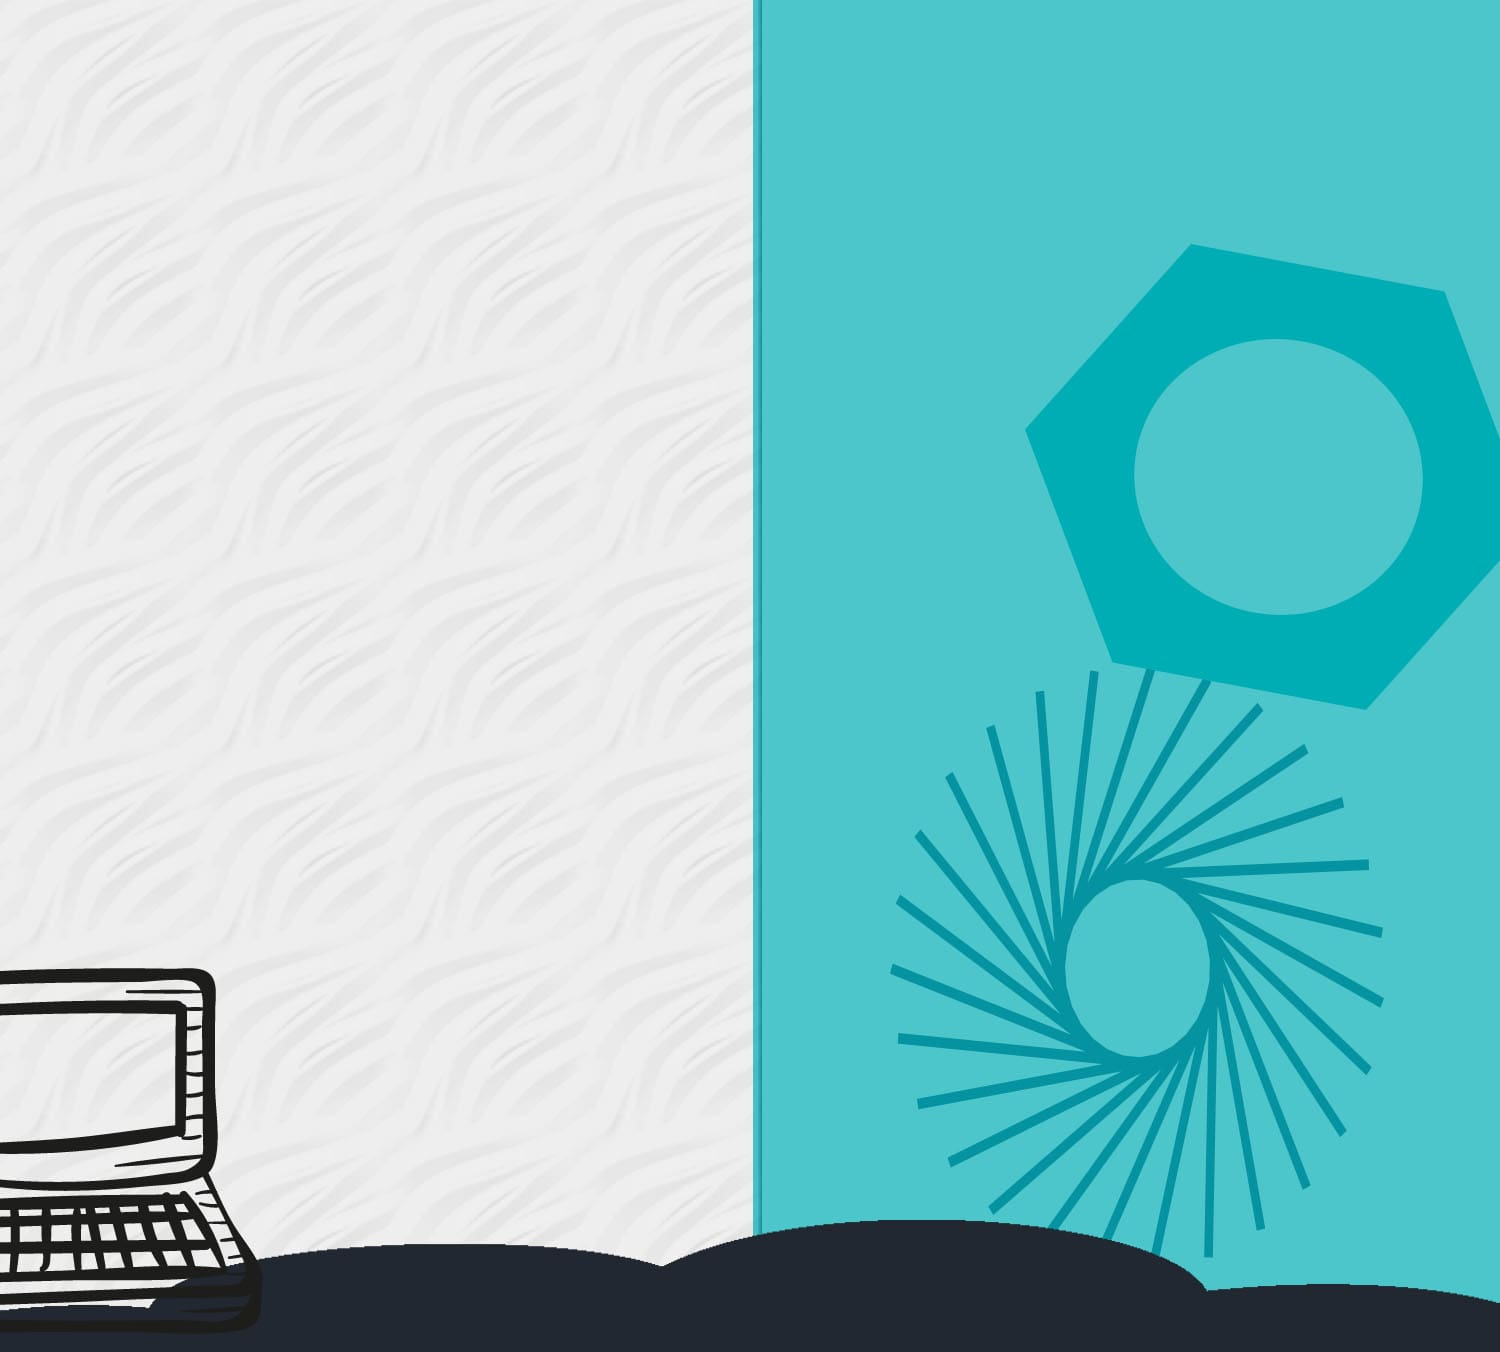
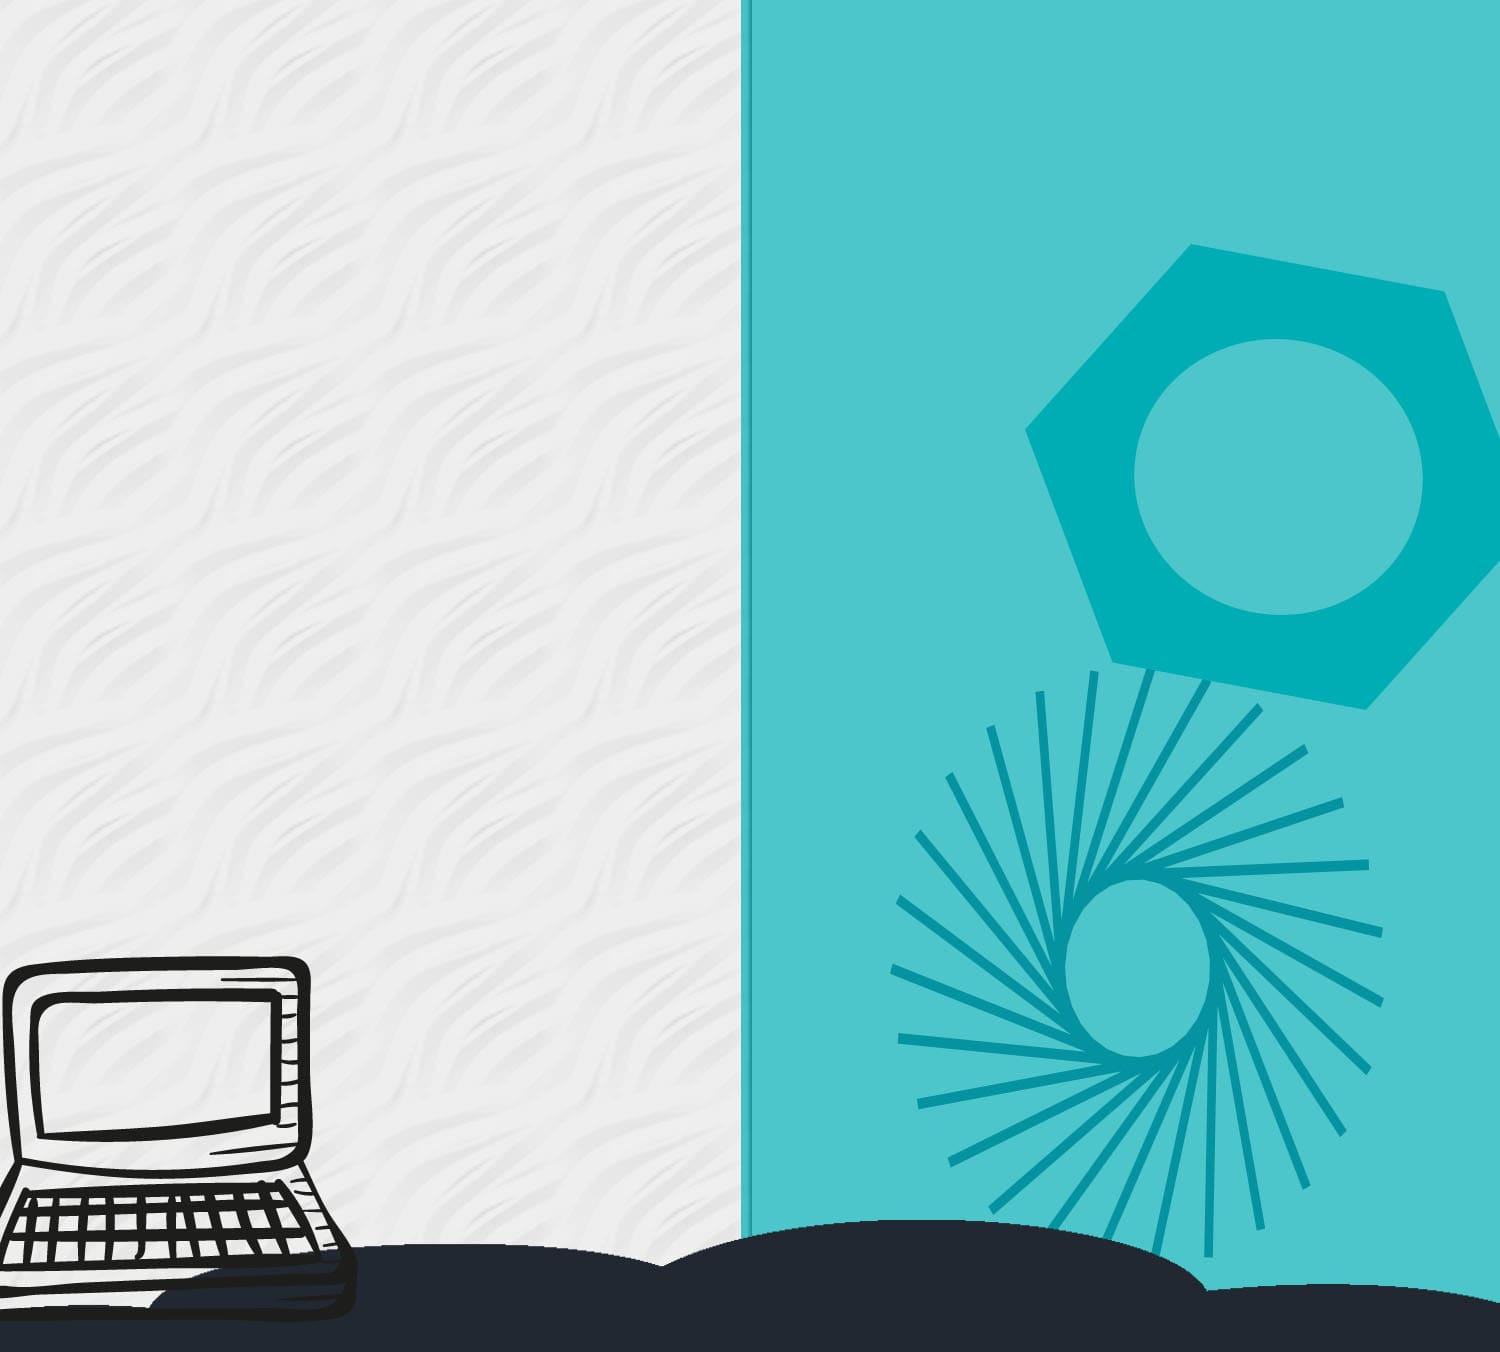
add new layout & design in home

Changed region(s): [[0.0, 0.6834, 0.2453, 0.9941], [0.4907, 0.0, 0.5213, 0.932]]

diff --git a/js/main.js b/js/main.js
@@ -1,100 +1,1 @@
-$(document).ready(()=>{
-    
-    let bars = $('#bars');
-    let linksCon = $('#linksCon');
-    bars.on('click',()=>{
-        if(bars.hasClass('fa-bars')){
-            bars.removeClass('fa-bars').addClass('fa-close');
-            // set left
-            linksCon.css("left", "0");
-            // rotate
-            bars.css("transform","rotate(360deg)");
-            // set opacity
-            setTimeout(()=>{
-                linksCon.css("opacity","1");
-            },1100);
-        }else{
-            bars.addClass('fa-bars').removeClass('fa-close')
-            // set opacity
-            linksCon.css("opacity", "0");
-            // rotate
-            bars.css("transform","rotate(-360deg)");
-            // set opacity
-            setTimeout(()=>{
-                linksCon.css("left","200%");
-            },1100);
-        }
-    });
-
-    // loop links
-    let links = $('.links');
-    links.each(function(index,btn){
-       $(this).on('click',function(){
-
-        // check if window width is less than 875
-        if($(window).width()<= 874){
-             // close if have click of any links
-        bars.addClass('fa-bars').removeClass('fa-close');
-        // set opacity
-        linksCon.css("opacity", "0");
-        // rotate
-        bars.css("transform","rotate(-360deg)");
-        // set opacity
-        setTimeout(()=>{
-            linksCon.css("left","200%");
-        },1100);
-        }
-
-
-        });
-    });
-
-
-
-
-    // for contact form 
-    let contactForm = $('.contactForm');
-    let contactbtn = $('#contact');
-
-    contactbtn.on('click',()=>{
-        if(contactForm.hasClass('close')){
-
-            // lock scroll
-            $('body').css("overflow","hidden");
-
-            contactForm.removeClass('close').addClass('open');
-            contactForm.css("left","0");
-            setTimeout(()=>{
-                contactForm.css("opacity","1");
-            },1050)
-        }
-    });
-
-
-        // close form
-        $('#closeContactForm').on('click',()=>{
-
-            
-        // allow scroll
-        $('body').css("overflow","unset");
-
-        contactForm.addClass('close').removeClass('open');
-        contactForm.css("opacity","0");
-        setTimeout(()=>{
-            contactForm.css("left","200%");
-        },1000);
-
-
-        });
-
-    
-
-
-    // get date
-    let date = new Date();
-    let getYear = date.getFullYear();
-    $('#c').text(`Jonrie © ${getYear}`);
-
-
-
-});
+import "./index.js";

diff --git a/css/home.css b/css/home.css
@@ -76,7 +76,7 @@
     top: 0%;
     left: 200%;
     z-index: 100000000000000000000;
-    background: #222831;
+    background: #222831a6;
     width: 100%;
     height: 100%;
     display: flex;
@@ -93,11 +93,11 @@
 
 .main .contactForm #closeContactForm{
     position: absolute;
-    top: 6%;
+    top: 1.5%;
     right: 3%;
     color: #EEEEEE;
     cursor: pointer;
-    font-size: 2rem;
+    font-size: 1.5rem;
 }
 
 
@@ -169,6 +169,7 @@
     font-size: 2rem;
     color: #393E46;
     transition: .5s linear;
+    background: #EEEEEE;
 }
 .main .socialLinks a >i:hover{
     color: #000;
@@ -179,12 +180,21 @@
 
 .main .home{
     background: url("../assets/homebg.jpg")no-repeat center center/cover;
-    height: 100vh;
-    min-height: 1200px;
+    min-height: 1000px;
     max-height: 1400px;
     width: 100%;
     position: relative;
     overflow: hidden;
+    background-attachment: fixed;
+}
+.main .home::after{
+    content: "";
+    background: url("../assets/cloud.png");
+    width: 100%;
+    height: 8rem;
+    position: absolute;
+    top: 88.5%;
+    left: 0;
 }
 /* header */
 .main .home header{

diff --git a/css/myWorks.css b/css/myWorks.css
@@ -143,6 +143,22 @@
 
 
 
+/* large screen width */
+@media screen and (min-width: 2300px){
+    /* works con new layout 2300px */
+    .main .myWorks .worksCon{
+        max-width: unset;
+    }
+    /* lines from make none */
+    .main .myWorks .worksCon >div >.linesFrom::before{
+        display: none;
+    }
+    /* dots from h2 adjust position */
+    .main .myWorks .worksCon >div >h2::after{
+        left: -3%;
+    }
+}
+
 
 /* media */
 @media screen and (max-width: 950px){

diff --git a/css/about.css b/css/about.css
@@ -7,7 +7,6 @@
     align-items: center;
     gap: .5rem;
     padding: 0 .5rem;
-    
     /* for picture */
     overflow: hidden;
 }
@@ -61,6 +60,7 @@ line-height: 3rem;
     gap: 2rem;
     margin-top: 2.2rem;
     padding-left: 4.3rem;
+    max-width: 2500px;
 }
 
 /* for all h3 */
